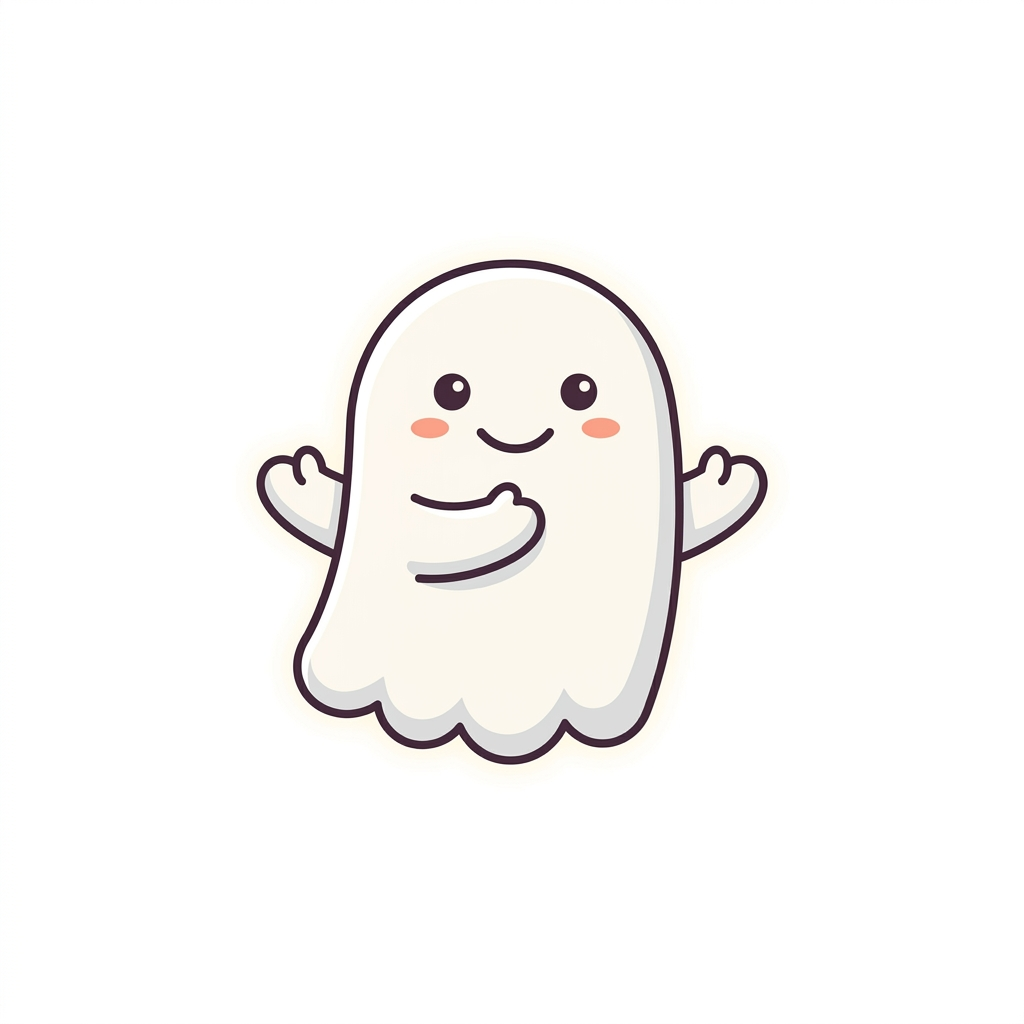
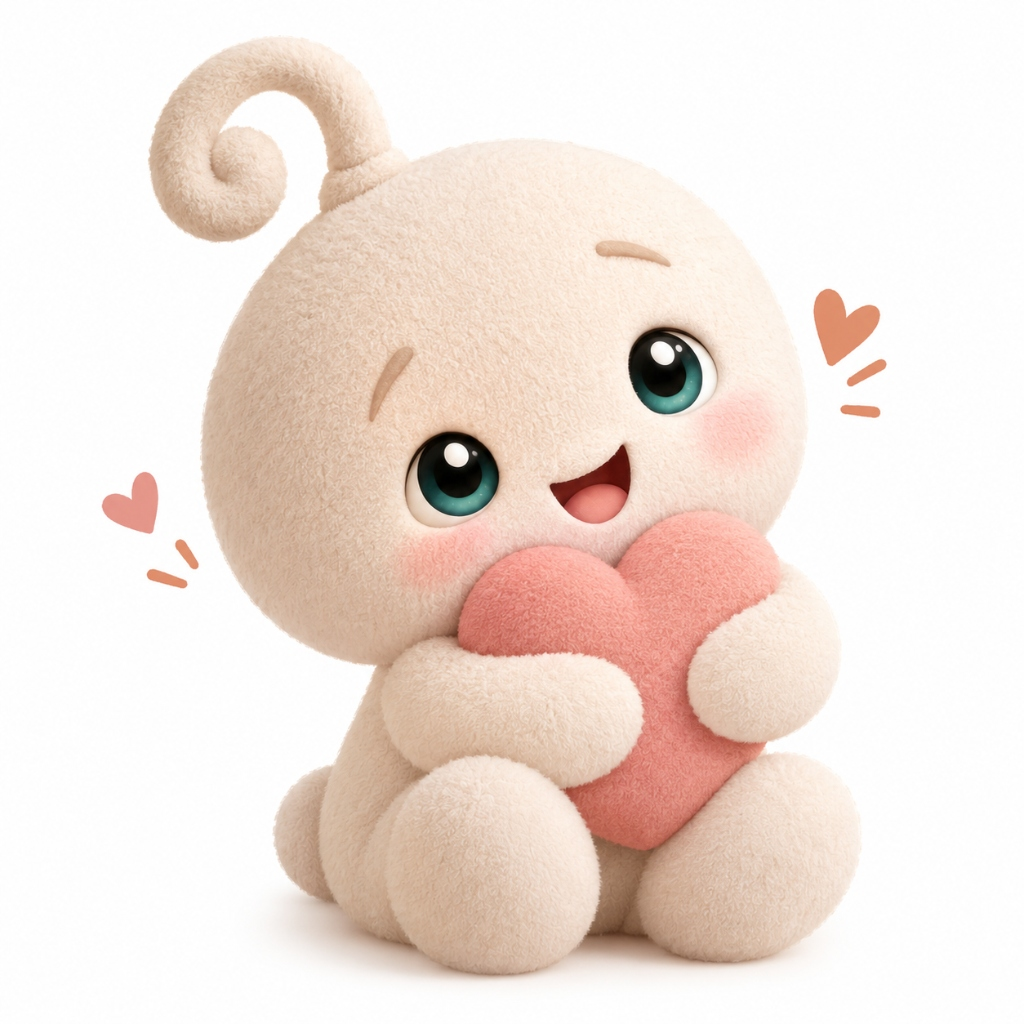
fix: change overlay position to fixed so it renders correctly over the viewport and use user provided mascot

diff --git a/src/pages/Chats.jsx b/src/pages/Chats.jsx
@@ -619,7 +619,7 @@ const Chats = () => {
             exit={{ opacity: 0, scale: 1.2, y: -50 }}
             transition={{ type: "spring", bounce: 0.5 }}
             style={{
-              position: 'absolute',
+              position: 'fixed',
               top: 0, left: 0, right: 0, bottom: 0,
               display: 'flex',
               flexDirection: 'column',
@@ -642,7 +642,7 @@ const Chats = () => {
             exit={{ opacity: 0, scale: 1.1 }}
             transition={{ duration: 0.5, ease: "easeOut" }}
             style={{
-              position: 'absolute',
+              position: 'fixed',
               top: 0, left: 0, right: 0, bottom: 0,
               display: 'flex',
               flexDirection: 'column',
